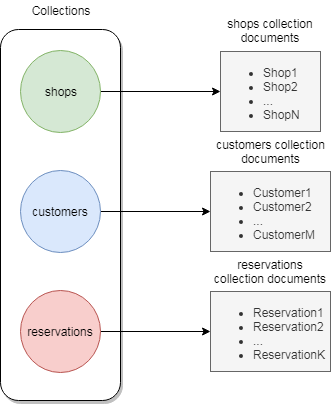
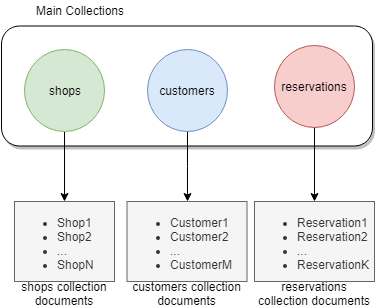
Update DD ArchitecturalDesign

diff --git a/Design Document/Files/ArchitecturalDesign.tex b/Design Document/Files/ArchitecturalDesign.tex
@@ -12,63 +12,205 @@ Based on this, a client-server architectural approach has been chosen.
 	\caption{Client Server architecture}
 	\label{fig:clientserver}
 \end{figure}
-Furthermore, the system can be divided into three different subsystems: the presentation layer, the application layer and the data layer, where: 
+\noindent Furthermore, the system can be divided into three different subsystems: the presentation layer, the application layer and the data layer, where: 
 \begin{itemize}
 	\item The \emph{Presentation Layer} provides the GUI of the system.
 	\item The \emph{Logic Layer} contains the logic of the application,that receives the requests from the user.
 	\item The \emph{Data Layer} stores and maintains the data needed from the system to works properly, i.e. user's \& shop's information and reservations details.
 \end{itemize}
+\subsection{Model–View–ViewModel (MVVM)}
+Since in the Android development it's quite easy to find conflicting arguments regarding the use of the well known Model-View-Controller pattern due to views being in part also controllers, the officially suggested architecture is the Model–View–ViewModel one, where the (graphical user interface) GUI is separated from the model by a ViewModel that handles the conversion of data and exposes to the View only the needed information.\\
+The main advantage of using ViewModel classes is that they are part of the Android class system already, therefore the developer only needs to extend the ViewModel class to create a custom one for the needed purpose.\\
+It should be noted how ViewModel classes are not destroyed when the View is recreated (for example when rotating the screen), meaning that data is actually preserved to allow for a better user experience.\\
+A classic example of MVVM can be seen when using \textbf{Room} to locally store data in a MySQL database (with all the advantages of the latest Repository and DAO integration for easier use), but for this project there was no need to do so since Firebase already takes care of storing data when off-line.
 \clearpage
-
+\subsection{Live Data}\vspace{-0.1cm}
+Live Data is a class of objects that allow to be observed, meaning that if a ViewModel returns a reference to a Live Data Object, the View can simply observe the given object and when a change happens it can update itself by executing the code in the call.This has been used in conjunction with FirebaseFirestore observers to update the reservation lists in real time even when the application is already opened, making therefore obsolete the use of a "refresh button".
 \subsection{Component View}
-
 \subsubsection{Overview}
-In \autoref{fig:hlCD} is possible to see the high level components of the system and the interfaces used to connect one to another, where
+In \autoref{fig:hlCD} is possible to see the high level components of the system and the interfaces used to connect one to another, where:
 \begin{itemize}
-	\item \emph{Firebase} provides the entry point for external resources;
-		\item \emph{Firestore} provides the database system;
-			\item \emph{Firebase Auth} provides the authentication system;
-	\item The \emph{Mobile Application} is the mobile application used by a user with his/her smartphone.
+\item \emph{Firebase} allows the use of many functionalities to aid development;
+\item \emph{Data} is a macro category containing functionalities and services to store information:
+\begin{itemize}
+\item \emph{Firestore} is the cloud database system used to store information.
+\item \emph{Real-time DB} is the database used to store chat conversations.
+\item \emph{Storage} is Firebase system to store files such as user's profile pictures.
 \end{itemize}
-
+\item \emph{Firebase Auth} provides the authentication system;
+\item \emph{Cloud Functions} allow to make modifications to the database when defined triggers are fired, moving computation to the back-end instead of relying on the user's device;
+\item \emph{Cloud Messaging} notification system handled by the back-end once properly set-up;
+\item \emph{Maps API} given by Google to use Maps functionalities such as address search and maps display;
+\item The \emph{Mobile Application} is the mobile application used by a user with his/her smartphone.
+\end{itemize}
 \begin{figure}[H]
-	\includegraphics[width = \textwidth, keepaspectratio = true]{Img/HighLevelComponent}
+\centering
+	\includegraphics[width = 0.75\textwidth, keepaspectratio = true]{Img/HighLevelComponent}
 	\caption{High level Component Diagram}
 	\label{fig:hlCD}
 \end{figure}
-
 \clearpage
-\subsubsection{Database View}
+\subsubsection{Firestore View}
 Unlike traditional Entity-Relationship DB systems, Firestore is organized in Collections-Documents hierarchy that can be further nested, meaning a Document can contain one or more Collections containing other Documents and so on.\\
-For this project only three Collections where used, each composed by a series of documents as shown in \autoref{fig:HighLevelDB}
+The main Collections used are shown in \autoref{fig:HighLevelDB}, while the others shown in \autoref{fig:HighLevelDBSupport} where used as support Collections in order to add functionalities.
+
 \begin{figure}[H]
+\centering
 	\includegraphics[width = 0.8\textwidth, keepaspectratio = true]{Img/HighLevelDB}
-	\caption{\emph{High level} structure of the DB}
+	\caption{\emph{Main} Collections}
 	\label{fig:HighLevelDB}
 \end{figure}
-\clearpage
-\noindent While the three documents are shown as follows as a Java class would be. Shop \autoref{fig:ShopDocument} and Customer \autoref{fig:CustomerDocument} are actually implemented in this way, while reservations \autoref{fig:ReservationDocument} differ depending on the type of user that is using the application, but only these information are needed to be recorded in the database.
-\begin{figure}[H]
-  \centering
-  \begin{minipage}[b]{0.3\textwidth}
-    \includegraphics[width=\textwidth]{Img/ShopDocument}
-	\caption{\emph{Shop} document}
-	  \label{fig:ShopDocument}
-  \end{minipage}
-  \hfill
-  \begin{minipage}[b]{0.3\textwidth}
-    \includegraphics[width=\textwidth]{Img/CustomerDocument}
-	\caption{\emph{Customer} document}
-	  \label{fig:CustomerDocument}
-  \end{minipage}
-  \hfill
-  \begin{minipage}[b]{0.3\textwidth}
-    \includegraphics[width=\textwidth]{Img/ReservationDocument}
-	\caption{\emph{Reservation} document}
-	  \label{fig:ReservationDocument}
-  \end{minipage}
-\end{figure}
 
+\begin{figure}[H]
+\centering
+	\includegraphics[width = 0.8\textwidth, keepaspectratio = true]{Img/HighLevelDBSupport}
+	\caption{\emph{Support} Collections}
+	\label{fig:HighLevelDBSupport}
+\end{figure}
+\clearpage
+\noindent Each object is stored in its separate document with an unique ID (UID) given by Firestore itself, here are some examples of how each one looks like in the JSON representation:
+
+\lstset{
+    string=[s]{"}{"},
+    stringstyle=\color{blue},
+    comment=[l]{:},
+    commentstyle=\color{black},
+escapeinside={\\*}{*\\},    
+}
+\paragraph*{Customer}:
+\label{Par:Customer}
+\begin{lstlisting}
+{
+  "uid": "jcUgNG7wi4eZmQjakQRTQNSYWqk1",
+  "name": "Bob Peterson",
+  "phone": "3343200266",
+  "mail": "bob.peterson@gmail.com",
+  "profilePicUrl": "URL to storage" \*\textcolor{ForestGreen}{File storage is a different service}*\\
+}
+\end{lstlisting}
+\paragraph*{Shop}:
+\label{Par:Shop}
+\begin{lstlisting}
+{
+  "uid": "0wiQ9FYr1YdL1aTPVgUe5ndCmSt2",
+  "name": "Forbici & Capelli",
+  "phone": "0523468159",
+  "mail": "forbici.capelli@gmail.com",
+  "profilePicUrl": "URL to storage", \*\textcolor{ForestGreen}{File storage is a different service}*\\
+  "address": "Via Emilia Parmense 22/B",
+  "city": "Piacenza",
+  "zip": "29122",
+  "latitude": 45.0391566,
+  "longitude": 9.7204521,
+  "intLongitude": 9,
+  "averageReviews": 4.7,
+  "numReviews": 12,
+  "tags": ["barber", "parrucchiere", "forbici & capelli", "forbici", "capelli"],
+  "hours": [
+    {
+      "Monday": [
+        "08:30",
+        "12:00",
+        "Closed",
+        "Closed"
+      ],
+      "Tuesday": [
+        "07:30",
+        "12:00",
+        "14:00",
+        "17:30"
+      ],
+      "Wednesday": [
+        "07:30",
+        "12:00",
+        "14:00",
+        "17:30"
+      ]\*\textcolor{ForestGreen}{Cut for page length purposes}*\\
+}
+\end{lstlisting}
+\clearpage
+\paragraph*{Reservation}:
+\label{Par:Reservation}
+\begin{lstlisting}
+{
+  "time": "1563199200000", \*\textcolor{ForestGreen}{Stored as long (time in milliseconds)}*\\
+  "where": "Via Emilia Parmense 22/B",
+  "shopUid": "0wiQ9FYr1YdL1aTPVgUe5ndCmSt2",
+  "shopName": "Forbici & Capelli",
+  "shopPic": "URL to storage", \*\textcolor{ForestGreen}{File storage is a different service}*\\
+  "customerUid": "jcUgNG7wi4eZmQjakQRTQNSYWqk1",
+  "customerName": "Bob Peterson",
+  "customerPic": "URL to storage" \*\textcolor{ForestGreen}{File storage is a different service}*\\
+}
+\end{lstlisting}
+\paragraph*{Chat}: \textcolor{ForestGreen}{Bob Peterson's}
+\label{Par:Chat}
+\begin{lstlisting}
+{
+  "thisName": "Bob Peterson",
+  "thisPhoto": "URL to storage", \*\textcolor{ForestGreen}{File storage is a different service}*\\
+  "otherName": "Forbici & Capelli",
+  "otherUid": "0wiQ9FYr1YdL1aTPVgUe5ndCmSt2",
+  "otherPhoto": "URL to storage", \*\textcolor{ForestGreen}{File storage is a different service}*\\
+  "lastText": "See you on Monday!",
+  "isRead": true,
+  "lastMsgDate": "2019-08-10 13:11:17 UTC+2"
+}
+\end{lstlisting}
+\paragraph*{Reservation Update}: \textcolor{ForestGreen}{Needed only for listeners}
+\label{Par:ReservationUpdate}
+\begin{lstlisting}
+{
+  "reservations": 2
+}
+\end{lstlisting}
+\paragraph*{Review}:
+\label{Par:Review}
+\begin{lstlisting}
+{
+  "reviewScore": 3,
+  "ShopUid": "DzSJgsPGfsPrDhAFwEnyK6VeRJH2",
+  "customerUid": "jcUgNG7wi4eZmQjakQRTQNSYWqk1"
+}
+\end{lstlisting}
+\paragraph*{Notification}: \*\textcolor{ForestGreen}{Once the notification is sent the entry will be automatically removed}*\\
+\label{Par:Notification}
+\begin{lstlisting}
+{
+  "recipientUid": "0wiQ9FYr1YdL1aTPVgUe5ndCmSt2",
+  "title": "Bob Peterson", 
+  "body": "See you on Monday!" \*\textcolor{ForestGreen}{Empty if it's a new reservation notification}*\\
+}
+\end{lstlisting}
+\clearpage
+\subsubsection{Real-time Database View}
+\label{RealTimeDB}
+For convenience the actual chat conversations are stored in the real-time database under the node \textbf{messages} in a series of sub-nodes where each conversation is identified by \textit{smallerUID\_biggerUID} (to be uniquely identifiable from both users without storing a new conversation UID) where the difference is given by the \textit{compare} method that Java offers for Strings.
+Each message in a conversation is a new child node under the \textit{smallerUID\_biggerUID} generated UID with the following structure:
+\dirtree{%
+.1 reservation-PRIVATE\_PROJECT\_UID.
+.2 messages.
+.3 15dQDKOmhKTImo4nZS9Yielor2m2\_jcUgNG7wi4eZmQjakQRTQNSYWqk1.
+.4 -LjhD3f7Nzuy12g\_q2LZ \textcolor{ForestGreen}{UID auto-generated}.
+.5 message: "Hi, would you mind if I asked you a question?".
+.5 user: "Bob Peterson".
+.3 DzSJgsPGfsPrDhAFwEnyK6VeRJH2\_jcUgNG7wi4eZmQjakQRTQNSYWqk1.
+.4 -MLDD3f7dxipo89s\_23aq \textcolor{ForestGreen}{UID auto-generated}.
+.5 message: "Hi, how much is it for a haircut?".
+.5 user: "Bob Peterson".
+.4 -TjhDf5qNzuy12g\_qongZ \textcolor{ForestGreen}{UID auto-generated}.
+.5 message: "It's 15 euros".
+.5 user: "Forbici \& Capelli".
+}
+\subsubsection{Storage View}
+The Firebase Storage structure is simply organized in a single folder since it's only needed to store profile pictures.
+\dirtree{%
+.1 profile\_pics.
+.2 profile\_picture\_user\_1.
+.2 profile\_picture\_user\_2.
+.2 profile\_picture\_user\_3.
+.2 profile\_picture\_user\_4.
+}
 \subsubsection{Firebase Auth View}
 The Firebase Authentication system handles automatically the authentication of the connected user by storing:
 \begin{itemize}
@@ -78,23 +220,39 @@ The Firebase Authentication system handles automatically the authentication of t
 \item Last sign in
 \item User UID (which is then used in the DB as an identifier)
 \end{itemize} 
-\subsubsection{Mobile Application}
-The \emph{Mobile Application} is used by the user via its own smart device. The \emph{Mobile Application} communicates directly with the Firebase system using the provided API.
 \clearpage
+\subsubsection{Firebase Cloud Functions View}
+Cloud functions are functions written in JavaScript that allow for actions to be executed by the Firebase server on specific triggers to relieve computation from the user's device.\\
+For this project two functions have been written:
+\begin{itemize}
+\item \textbf{newShopReview}: triggered when a new \textit{document.write} (which means it will trigger both on update and on create) occurs in the \textit{reviews} collection, it is tasked to read the value of the review and update the average and total number of reviews of the shop that was reviewed. It also handles the case in which the review is just an update of an already existing one.
+\item \textbf{sendNotification}: triggered when a new \textit{document.create} occurs in the \textit{notification} collection, it is tasked with sending the content of the notification to the given recipient. It also handles the deletion of the created element in the database to avoid storing now useless data.
+\end{itemize}
+\subsubsection{Firebase Cloud Messaging View}
+Built in system for messaging (notifications), since at login each user subscribes to an unique topic (identified by the UID of user itself), the Cloud Messaging system will send the notification content (by using the \textit{sendNotification} cloud function) to only that user. The notification will be received as soon as the user's device is reachable.
+\subsubsection{Maps API}
+Google Maps API have been added to the project in order to use the \textbf{places} and the \textbf{maps SKD for Android} that are needed respectively to search an address from where the search will start and to show the map view when a shop is selected.
+\subsubsection{Mobile Application}
+The \emph{Mobile Application} is used by the user via its own smart device. The \emph{Mobile Application} communicates directly with the Firebase and Google Maps system using the provided API.
 
+\clearpage
 \subsection{Implementation choices}
 \label{Implementation choices}
-The technology chosen for the implementation on the system are all based on Java since it is the most common way of developing Android applications and the availability of documentation and other sources of learning materials are abundant and some experience was already obtained during past projects. It also offers the possibility of adding new functionalities in future, making the system more scalable given how the platform is constantly evolving\\
-To summarize the technologies used:
-\paragraph{Mobile application}: entirely Android (Java) based with Firebase API added in order to use the external tools. Other modules such as RecycleViews and Cards have been added.
-\paragraph{DBMS}: Firestore was selected over the old real time database system since it has been developed as a successor to substitute it. I provides easy to use DB mechanisms, at the loss of complexity such as complex queries and it's not a relational DB system which is usually more familiar.\\
-
+The technology chosen for the implementation on the system are all based on Java and JavaScript since it is the most common way of developing Android applications using Firebase and the availability of documentation and other sources of learning materials are abundant, plus some experience was already obtained during past projects. \\It also offers the possibility of adding new functionalities in future, making the system more scalable given how the platform is constantly evolving\\\\
+To summarize the technologies used are:
+\paragraph{Mobile application:} entirely Android (Java) based with Firebase and Google Maps API added in order to use the external tools. Other modules such as RecycleViews and Cards have been added.
+\paragraph{Main DBMS:} Firestore was selected over the old real time database system since it has been developed as a successor to substitute it. I provides easy to use DB mechanisms, at the loss of complexity such as complex queries and it's not a relational DB system which is usually more familiar.
+\paragraph{Chat DBMS:} It has been used the real-time database because it's ideal to store simple structures like the one needed for chats and shown in \autoref{RealTimeDB}.
+\paragraph{Storage:} Firebase Storage system has been chosen since it's part of the ecosystem.
+\paragraph{Cloud Functions:} Just like Storage, Firebase Cloud Functions have been chosen since they are already part of the ecosystem and they were needed for some back-end actions.
+\paragraph{Authentication:} Firebase auth allows for easy and fast authentication methods already handled.
+\paragraph{Cloud Messaging:} Part of the Firebase ecosystem, handles the majority of the work needed to deliver notifications to users.
 \clearpage
 \subsection{Runtime View}
 Here are represented the two most important runtime views by using diagrams that highlight the main actions the user has to follow in order to complete the given task.\\
 In \autoref{fig:RegistrationDiagram} it's highlighted in red the interaction that the system has with the authentication system, then the two branches between choosing to register as a customer (green) or shop (blue) are available to be picked.\\
-In \autoref{fig:ReservationDiagram} are again highlighted in red the interactions of the application with the Firebase systems, while in blue is noted the optional choice to select a different distance than the default one.\\
-It should be noted how in both cases none of the handled errors or problems are shown to keep the diagrams simple.
+In \autoref{fig:ReservationDiagram} are again highlighted in red the interactions of the application with the Firebase systems, the yellow one is referred to the use of Google Maps API (in this case the \textbf{places} API to be exact) while in blue is noted the optional choice to select a different distance than the default one.\\
+It should be noted how none of the handled errors or problems are shown to keep the diagrams simple.
 
 \begin{figure}[H]
   \centering

diff --git a/Design Document/Files/Introduction.tex b/Design Document/Files/Introduction.tex
@@ -4,7 +4,9 @@ To do so it will be taken a more detailed approach for the description of each c
 
 \subsection{Scope}
 Reservation is an appointment management application, designed to help the users with their daily routine by keeping track for them of their next appointments in registered shops and avoiding the hustle of queueing or trying to reach the shop managers on the phone.\\
-The same application can be used by \textbf{customers} and \textbf{shop owners} to manage the reservations, for the former it will help with the actual reservation process and act as an agenda by keeping track of the next appointments taken, while for the latter it will display the next customers that reserved a spot while giving only minimum information to preserve the customer's privacy.
+The same application can be used by \textbf{customers} and \textbf{shop owners} to manage the reservations, for the former it will help with the actual reservation process and act as an agenda by keeping track of the next appointments taken, while for the latter it will display the next customers that reserved a spot while giving only minimum information to preserve the customer's privacy.\\
+Both kinds of users have access to chat functionalities that allow them to communicate if needed and a back-end handled system of notifications that will notify them when a new reservation has been made (receivable for shops only as they can't make a reservation themselves) or a new chat message is available.\\
+Customers are also able to leave a review score from 1 to 5 (stars) and in future update that value if they wish so.
 
 \subsection{Definitions, Acronyms, Abbreviation}
 \begin{itemize}
